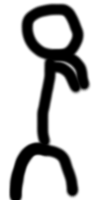
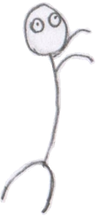
Изменение текстур игрока

diff --git a/TestRoom.py b/TestRoom.py
@@ -15,9 +15,10 @@ wallpaper = pygame.image.load("img/Wallpaper.jpg")
 button = pygame.image.load("img/Button_NotBlack.png")
 
 wallpaperTextMenu = pygame.image.load("img/TextMenu.png")
-level = 2
 
-statusDJump = True
+level = 3
+
+statusDJump = False
 
 Smeshenie=[0,0]
 
@@ -199,6 +200,7 @@ def HboxLogigs():
             if (i.getNBT()=="next"):
                 level += 1
                 get_level(f"levels/level{str(level)}.json")
+                Player.getXY = [start_x, start_y]
 
 
             Player.timeNoCal = 0
@@ -254,7 +256,7 @@ def HboxLogigs():
 
 class TestRoom:
     def Main():
-        global ScreemWindows, LKEY, Objs,JumpOtSten,wallpaperTextMenu
+        global ScreemWindows, LKEY, Objs,JumpOtSten,wallpaperTextMenu,statusDJump
 
         running = True
 
